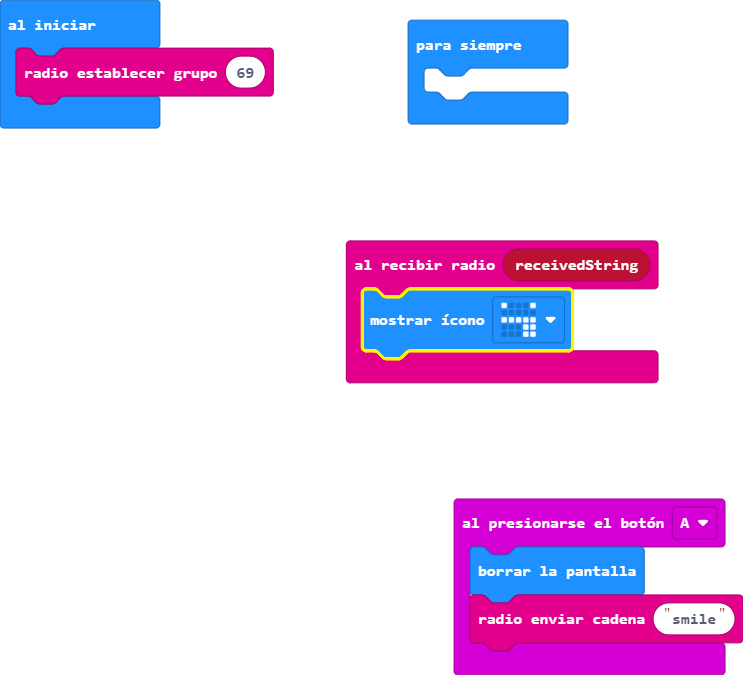
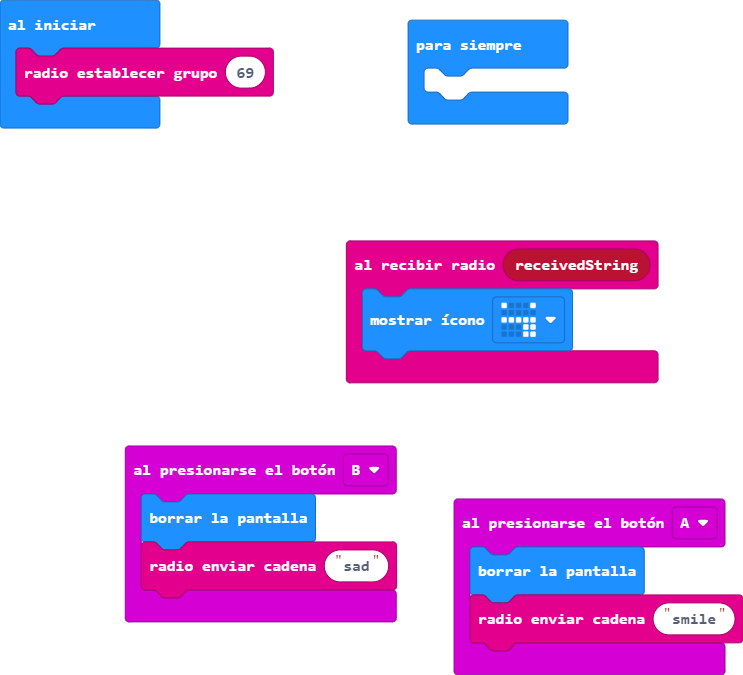
Actualizar main.blocks, main.ts

diff --git a/main.ts b/main.ts
@@ -5,6 +5,10 @@ input.onButtonPressed(Button.A, function () {
 radio.onReceivedString(function (receivedString) {
     basic.showIcon(IconNames.Silly)
 })
+input.onButtonPressed(Button.B, function () {
+    basic.clearScreen()
+    radio.sendString("sad")
+})
 radio.setGroup(69)
 basic.forever(function () {
 	
